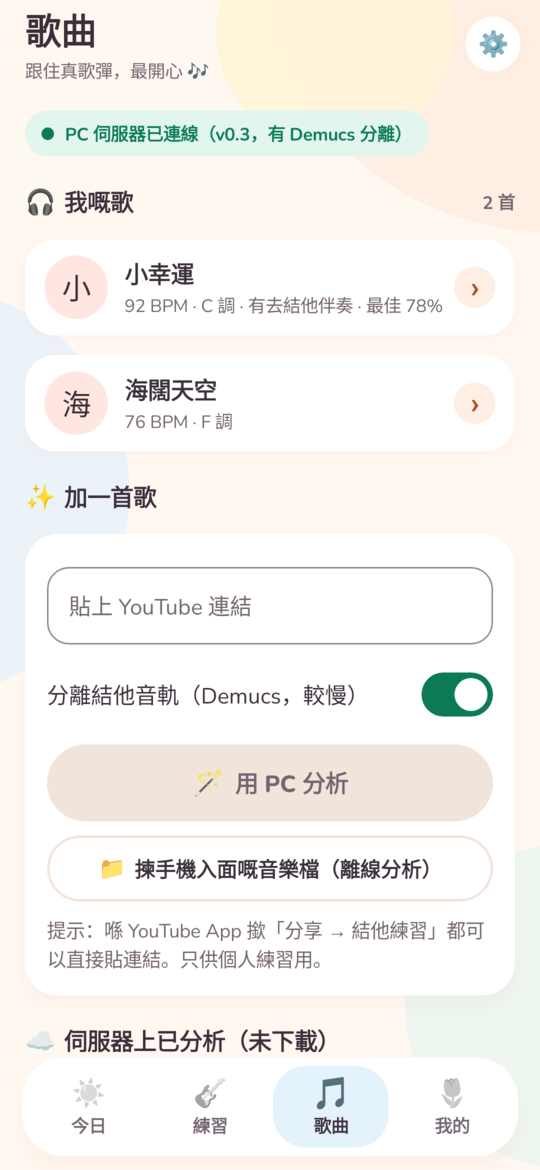
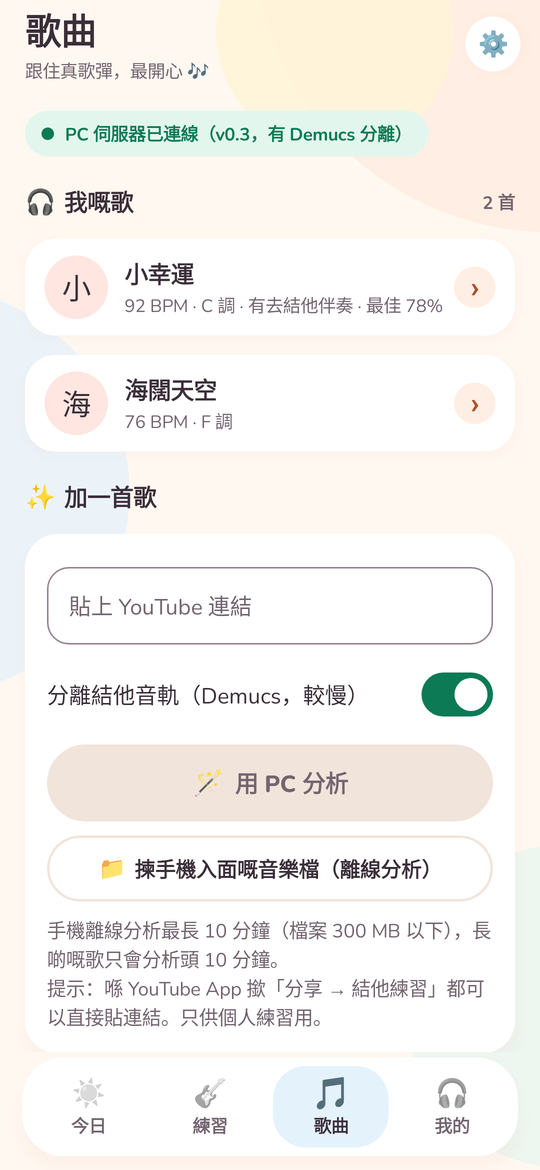
v0.2.2: replace flower emoji with music emoji

diff --git a/android/app/src/main/java/com/boss/guitartrainer/ui/HomeScreen.kt b/android/app/src/main/java/com/boss/guitartrainer/ui/HomeScreen.kt
@@ -303,7 +303,7 @@ private fun WelcomeCard(onSave: (String) -> Unit) {
                 keyboardOptions = KeyboardOptions(imeAction = ImeAction.Done),
                 keyboardActions = KeyboardActions(onDone = { if (name.isNotBlank()) onSave(name.trim()) }))
             Spacer(Modifier.width(10.dp))
-            PillButton("好", { onSave(name.trim()) }, enabled = name.isNotBlank(), emoji = "🌷", height = 52.dp)
+            PillButton("好", { onSave(name.trim()) }, enabled = name.isNotBlank(), emoji = "🎶", height = 52.dp)
         }
     }
 }
@@ -320,7 +320,7 @@ private fun WeekCard(s: TodayState) {
     SectionCard {
         Row(verticalAlignment = Alignment.CenterVertically) {
             Text("本星期", style = MaterialTheme.typography.titleMedium, modifier = Modifier.weight(1f))
-            Text(if (s.bestStreak > 0) "最長連續 ${s.bestStreak} 日" else "練一日就有朵花 🌼", style = MaterialTheme.typography.labelMedium, color = Palette.Muted)
+            Text(if (s.bestStreak > 0) "最長連續 ${s.bestStreak} 日" else "練一日就有粒音符 🎵", style = MaterialTheme.typography.labelMedium, color = Palette.Muted)
         }
         Row(Modifier.fillMaxWidth(), horizontalArrangement = Arrangement.SpaceBetween) {
             s.week.forEach { d ->
@@ -332,7 +332,7 @@ private fun WeekCard(s: TodayState) {
                         .then(if (d.isToday) Modifier.border(2.dp, Palette.Coral, CircleShape)
                               else if (d.future) Modifier.border(1.5.dp, Palette.Line, CircleShape) else Modifier),
                         contentAlignment = Alignment.Center) {
-                        if (d.practiced) Text("🌼", fontSize = 18.sp)
+                        if (d.practiced) Text("🎵", fontSize = 18.sp)
                         else if (!d.future) Box(Modifier.size(6.dp).clip(CircleShape).background(Palette.Grid.copy(alpha = 0.6f)))
                     }
                 }

diff --git a/android/app/src/main/java/com/boss/guitartrainer/ui/StatsScreen.kt b/android/app/src/main/java/com/boss/guitartrainer/ui/StatsScreen.kt
@@ -102,7 +102,7 @@ private fun ProfileCard(nickname: String, lvl: Int, xp: Int, onEdit: () -> Unit)
     val a = Progression.xpForLevel(lvl); val b = Progression.xpForLevel(lvl + 1)
     Column(Modifier.fillMaxWidth().card(RoundedCornerShape(30.dp), brush = Brushes.Dreamy).padding(18.dp)) {
         Row(verticalAlignment = Alignment.CenterVertically) {
-            Box(Modifier.size(66.dp).clip(CircleShape).background(Color.White), contentAlignment = Alignment.Center) { Text("🌷", fontSize = 34.sp) }
+            Box(Modifier.size(66.dp).clip(CircleShape).background(Color.White), contentAlignment = Alignment.Center) { Text("🎧", fontSize = 34.sp) }
             Spacer(Modifier.width(14.dp))
             Column(Modifier.weight(1f)) {
                 Text(nickname.ifBlank { "結他新手" }, style = MaterialTheme.typography.headlineSmall, maxLines = 1, overflow = TextOverflow.Ellipsis)
@@ -216,7 +216,7 @@ private fun AchievementsTab(list: List<Achievement>) {
 @Composable
 private fun HistoryTab(hist: List<SessionRecord>, onDelete: (Long) -> Unit) {
     val fmt = SimpleDateFormat("M月d日 HH:mm", Locale.getDefault())
-    if (hist.isEmpty()) SectionCard { EmptyHint("📒", "未有紀錄。完成第一次練習，就會喺度見到 🌼") }
+    if (hist.isEmpty()) SectionCard { EmptyHint("📒", "未有紀錄。完成第一次練習，就會喺度見到 🎶") }
     hist.reversed().take(100).forEach { r ->
         Row(Modifier.fillMaxWidth().card(RoundedCornerShape(22.dp)).padding(start = 12.dp, top = 10.dp, bottom = 10.dp, end = 4.dp),
             verticalAlignment = Alignment.CenterVertically) {

diff --git a/android/app/src/main/java/com/boss/guitartrainer/ui/SettingsScreen.kt b/android/app/src/main/java/com/boss/guitartrainer/ui/SettingsScreen.kt
@@ -78,7 +78,7 @@ fun SettingsContent(s: AppSettings, sourceInUse: String, aecActive: Boolean, bas
                     crash: String? = null, onShareCrash: () -> Unit = {}, onClearCrash: () -> Unit = {}) {
     var name by remember { mutableStateOf(s.nickname) }
     var url by remember { mutableStateOf(s.serverUrl) }
-    Screen("設定", onBack, subtitle = "按你鍾意嘅方式練 🌷") {
+    Screen("設定", onBack, subtitle = "按你鍾意嘅方式練 🎶") {
         if (crash != null) SectionCard("上次閃退紀錄", icon = "🧯") {
             val lines = crash.lines()
             fun field(prefix: String) = lines.firstOrNull { it.startsWith(prefix) }?.removePrefix(prefix)?.trim()
@@ -91,7 +91,7 @@ fun SettingsContent(s: AppSettings, sourceInUse: String, aecActive: Boolean, bas
                 GhostButton("清除", onClearCrash, Modifier.weight(1f))
             }
         }
-        SectionCard("關於你", icon = "🌷") {
+        SectionCard("關於你", icon = "🎧") {
             OutlinedTextField(name, { v -> name = v.take(12); onUpdate { it.copy(nickname = name.trim()) } },
                 label = { Text("你嘅名（主頁會同你打招呼）") }, singleLine = true, modifier = Modifier.fillMaxWidth(),
                 shape = RoundedCornerShape(16.dp), colors = softFieldColors())

diff --git a/android/app/src/main/java/com/boss/guitartrainer/ui/ChordScreens.kt b/android/app/src/main/java/com/boss/guitartrainer/ui/ChordScreens.kt
@@ -257,7 +257,7 @@ fun ChordDetailContent(shape: ChordShape, notes: List<String>, check: ChordCheck
                 (fadeIn() + scaleIn(spring(dampingRatio = 0.5f), initialScale = 0.85f)) togetherWith fadeOut()
             }, label = "check") { _ -> CheckResult(shape, check) }
         }
-        SectionCard("練習小貼士", icon = "🌼", tone = Tone.MINT) {
+        SectionCard("練習小貼士", icon = "🎶", tone = Tone.MINT) {
             Hint("• 手指企直，用指尖按，貼近琴格（唔係格中間）。", Palette.Text)
             Hint("• 逐條弦撥一次聽下有冇悶音，再成個和弦掃。", Palette.Text)
             Hint("• 古典結他琴頸闊：拇指放喺琴頸後面中間，手腕微微向前。", Palette.Text)

diff --git a/android/app/src/test/java/com/boss/guitartrainer/ui/ScreenshotTest.kt b/android/app/src/test/java/com/boss/guitartrainer/ui/ScreenshotTest.kt
@@ -192,7 +192,7 @@ class ScreenshotTest {
     @Test fun results_one_star() = screen { ResultsContent(hist.first(), deltas, emptyList(), true, {}, {}, {}, {}) }
 
     @Test fun settings() { tall(); screen {
-        SettingsContent(AppSettings(nickname = "阿晴"), "UNPROCESSED", false, true, "0.2.0", null, {}, {}, {}, {})
+        SettingsContent(AppSettings(nickname = "阿晴"), "UNPROCESSED", false, true, "0.2.2", null, {}, {}, {}, {})
     } }
     @Test fun settings_crash() = screen {
         SettingsContent(AppSettings(nickname = "阿晴"), "UNPROCESSED", false, true, "0.2.1", null, {}, {}, {}, {},

diff --git a/android/app/src/main/java/com/boss/guitartrainer/ui/Theme.kt b/android/app/src/main/java/com/boss/guitartrainer/ui/Theme.kt
@@ -611,7 +611,7 @@ fun levelTone(l: Int) = when (l) { 1 -> Tone.MINT; 2 -> Tone.SUN; else -> Tone.C
 
 /** Friendly rank names for player levels. */
 fun rankName(level: Int) = when (level) {
-    1 -> "結他 BB 🐣"; 2 -> "初心者 🌱"; 3 -> "練習生 🌼"; 4 -> "小樂手 🎶"; 5 -> "結他手 🎸"; 6 -> "台上新星 ⭐"; else -> "結他達人 👑"
+    1 -> "結他 BB 🐣"; 2 -> "初心者 🌱"; 3 -> "練習生 🎵"; 4 -> "小樂手 🎶"; 5 -> "結他手 🎸"; 6 -> "台上新星 ⭐"; else -> "結他達人 👑"
 }
 
 val outlineAccent = BorderStroke(1.5.dp, Palette.Accent)

diff --git a/android/app/src/main/java/com/boss/guitartrainer/ui/Navigation.kt b/android/app/src/main/java/com/boss/guitartrainer/ui/Navigation.kt
@@ -36,7 +36,7 @@ val TABS = listOf(
     TabItem("home", "☀", "今日", Tone.SUN),
     TabItem("hub", "🎸", "練習", Tone.CORAL),
     TabItem("songs", "🎵", "歌曲", Tone.SKY),
-    TabItem("me", "🌷", "我的", Tone.ROSE),
+    TabItem("me", "🎧", "我的", Tone.ROSE),
 )
 /** Switch bottom tabs like a normal app: one copy of each tab, state kept per tab. */
 fun NavController.navigateTab(route: String) = navigate(route) {

diff --git a/README.md b/README.md
@@ -12,6 +12,7 @@ Android（Kotlin + Jetpack Compose）為主；屋企電腦 server（Python FastA
 
 ## 狀態
 
+- **v0.2.2**：App 入面嘅花 emoji 全部改成音樂 emoji（🎵 🎶 🎧 🎤），例如「今日」本星期改為亮音符、「我的」tab 同頭像改為 🎧。
 - **v0.2.1**：修正「揀手機入面嘅音樂檔」分析時閃退（長歌 / 高解析度檔記憶體唔夠）。而家逐段解碼，10 分鐘歌最多用大約 64 MB（以前 4 分鐘歌已經要 ~130 MB）；長過 10 分鐘只分析頭 10 分鐘，會清楚提示；分析喺背景做（轉 tab 唔會斷、唔會重複分析），可以撳「取消」；萬一再閃退，「設定」會顯示上次閃退紀錄，可以一撳分享。
 - **v0.2.0「晨光」UI 改版**：明亮奶油色 + 日出漸變、圓體字、4 個 tab（今日 / 練習 / 歌曲 / 我的）、新手路線圖、每日目標、今日和弦、暱稱問候、新 icon。核心功能（調音、判定、歌曲分析）同 v0.1.0 一樣。設計說明見 [docs/DESIGN.md](docs/DESIGN.md)。
 - **v0.1.0**（debug build）已完成；Phase 0 數據驗證完成（GuitarSet + 合成尼龍弦），詳見 [validation/REPORT.md](validation/REPORT.md)。
@@ -42,9 +43,9 @@ Android（Kotlin + Jetpack Compose）為主；屋企電腦 server（Python FastA
 APK 唔入 git（約 32 MB 二進制檔）。取得方法二選一：
 
 1. **自己 build**：`cd android && ./gradlew assembleDebug`，APK 喺 `android/app/build/outputs/apk/debug/app-debug.apk`（詳見 [docs/BUILD.md](docs/BUILD.md)）。
-2. **向作者攞** `GuitarTrainer-0.2.1-debug.apk`（最新）。
+2. **向作者攞** `GuitarTrainer-0.2.2-debug.apk`（最新）。
 
-> **由 v0.1.0 升級**：要先刪除舊版（長撳 icon → 解除安裝），因為兩個版本嘅簽名 key 唔同；練習紀錄會清空。v0.2.0 → v0.2.1 之後嘅版本會直接覆蓋更新（紀錄保留）。
+> **由 v0.1.0 升級**：要先刪除舊版（長撳 icon → 解除安裝），因為兩個版本嘅簽名 key 唔同；練習紀錄會清空。v0.2.0 之後嘅版本（v0.2.1、v0.2.2…）會直接覆蓋更新（紀錄保留）。
 
 之後：
 1. 將 APK 轉到手機 → 撳開。

diff --git a/PROGRESS.md b/PROGRESS.md
@@ -55,5 +55,6 @@ Task index -> page id (https://app.notion.com/p/<id>):
 49 on-device song analysis 1fb3ff83fb5844d7b572e2e03b30ab3d
 
 ## Done log
+- v0.2.2: all flower emoji in the app replaced with music emoji (🌼 → 🎵/🎶, 🌷 → 🎧/🎶/🎤; tab「我的」+ avatar 🎧, week dots 🎵, level「練習生 🎵」); DESIGN.md「本星期音符」. Same signing key → installs over v0.2.1.
 - v0.2.1 fix: app crashed when analysing a local song (old decoder kept the whole song at full rate + copies → OOM on long / hi-res files). Streaming decode + resample (10-min song ≈ 64 MB peak vs OOM before), app-scope SongImporter (one job, survives tab switches, cancel), 10-minute notice (status + song page), 300 MB / 10 s / no-chord guards, real file names as titles, crash log in Settings (share), largeHeap. +12 unit tests (StreamResampler, Pcm, DecodeMemoryTest in a 128 MB JVM), +4 screenshots.
 - v0.2.0「晨光」UI/UX redesign (for beginner / girl guitarists, bright-morning feel): new palette + Nunito/Pacifico fonts, 4 tabs (今日/練習/歌曲/我的), beginner roadmap, daily goal + chord of the day + nickname greeting, restyled game lane/tuner/results/stats, custom slider + haptics, adaptive icon, local-day streak fix (Days.kt), 33 Paparazzi screenshot tests. See docs/DESIGN.md.

diff --git a/docs/DESIGN.md b/docs/DESIGN.md
@@ -51,7 +51,7 @@
 
 | 畫面 | 重點 |
 |---|---|
-| 今日 | 按時間問候 + 暱稱、每日目標進度環（達標放彩紙）、連續日數、本星期花朵（練一日開一朵）、今日小目標、今日和弦、工具、上次練習、小貼士；第一次用有歡迎卡（輸入暱稱） |
+| 今日 | 按時間問候 + 暱稱、每日目標進度環（達標放彩紙）、連續日數、本星期音符（練一日亮一粒 🎵）、今日小目標、今日和弦、工具、上次練習、小貼士；第一次用有歡迎卡（輸入暱稱） |
 | 練習 | 新手路線圖 5 步（調音 → 3 個和弦 → 掃弦 → 3 粒星 → 第一首歌），然後節奏遊戲同工具 |
 | 節奏遊戲 | 和弦名 pill、發光判定線；箭咀顏色 = 方向（↓ 珊瑚、↑ 天空藍、✕ 淡紫），判定後變成績色；指彈 tab 有指名（p i m a）|
 | 調音器 | 大音名圈、半圓指針、逐條弦打剔、自動揀弦 |
